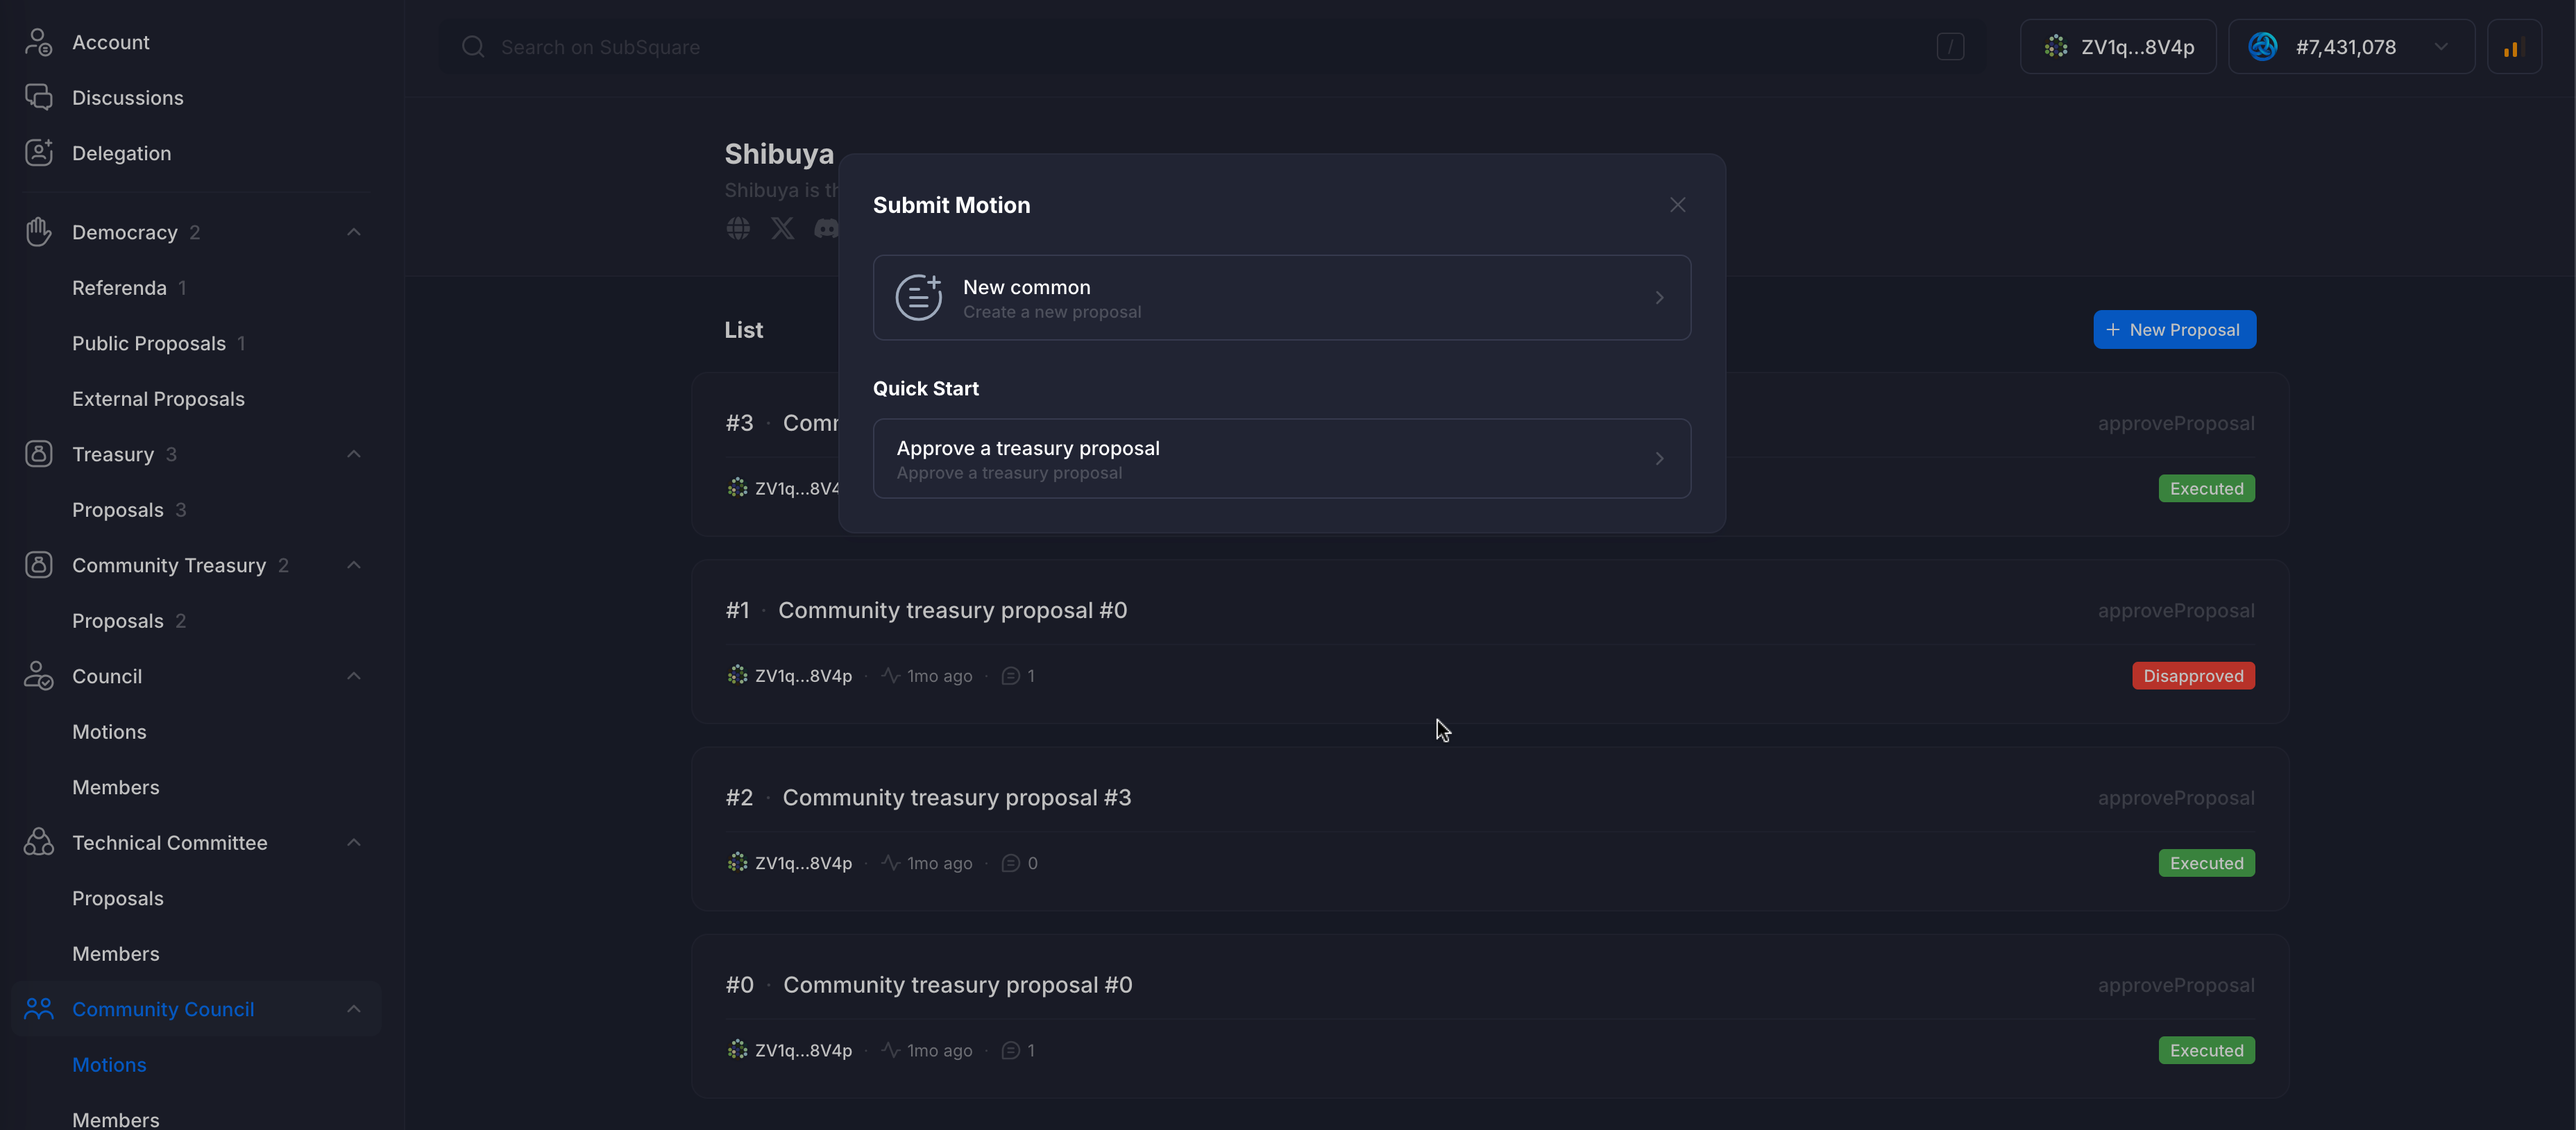
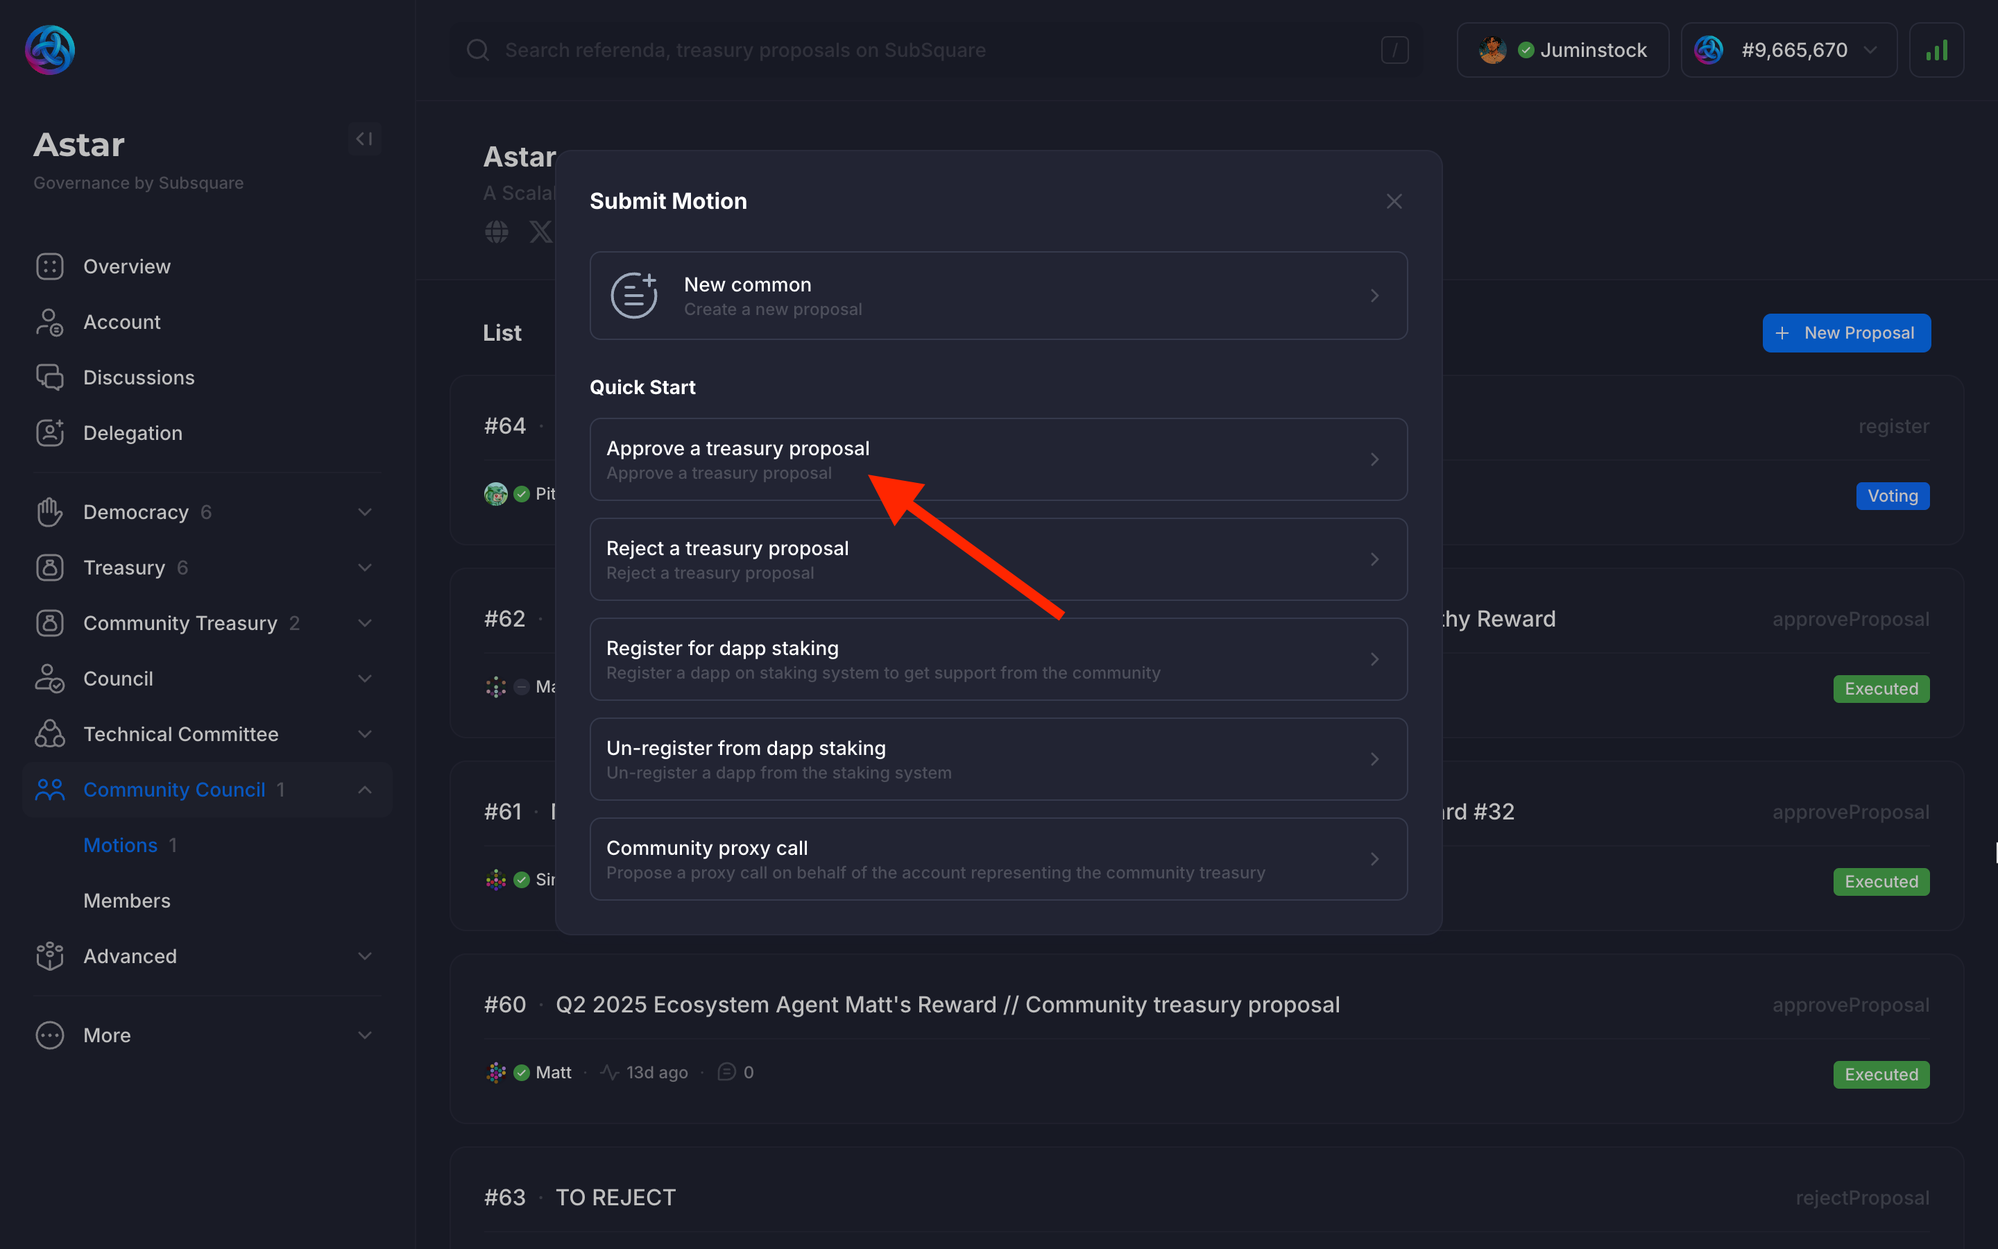
Update: Improve the Treasury Spending section

diff --git a/docs/use/how-to-guides/layer-1/governance/subsquare_guide.md b/docs/use/how-to-guides/layer-1/governance/subsquare_guide.md
@@ -332,47 +332,64 @@ Through these responsibilities, the Community Council plays a critical role in m
 If you'd like to get more involved with the Community Council, check out our [**Forum post**](https://forum.astar.network/t/introducing-the-community-council/7588).
 
 :::
-### Treasury Spending Approval
+
+Now let’s take a closer look at how the Community Council operates.
+
+### 3.2.1 Treasury Spending Request
+
+
+The Community Council is responsible for reviewing and voting on proposals that request funding from the **Community Treasury**. These proposals are submitted as `motions`, which can be viewed under the Motions tab in the Community Council section of the sidebar.
+
+With that in mind, let’s go through the steps the Council must follow to approve or reject a proposal.
+
+**Steps to Approve or Reject a Treasury Spending Proposal**
+
+**Step 1: Create a Motion**
 
 Clicking on the `Motions` tab under the `Community Council` sidebar tab will open a view of the `Community Council` motions.
 
-Clicking on the `New Proposal` button will prompt the user to create a new motion.
+Clicking on the `+ New Proposal` button will prompt the Council to create a new motion.
 
-<Figure caption="Community Treasury Voting - 1" src={require('/docs/use/img/22_Subsquare_comm_treasury/comm_treasury_1.png').default } width="100%" />
+<Figure caption="Create a Motion - Part 1" src={require('/docs/use/img/22_Subsquare_comm_treasury/comm_treasury_1.png').default } width="100%" />
 
----
+For this example, we will select the first option from the Quickstart: `Approve a treasury proposal`.
 
-The focus of this example is community treasury spending approval.
+<Figure caption="Create a Motion - Part 2" src={require('/docs/use/img/22_Subsquare_comm_treasury/comm_treasury_2.png').default } width="100%" />
 
-<Figure caption="Community Treasury Voting - 2" src={require('/docs/use/img/22_Subsquare_comm_treasury/comm_treasury_2.png').default } width="100%" />
+The proposal Id (can be checked under the Community Treasury tab) is required to create a new motion. Selecting an Id will display the proposal name, which also links to the proposal details.
 
----
+:::warning Important
 
-The proposal Id (can be checked under the Community Treasury tab) is required to create a new motion.
-Selecting an Id will display the proposal name, which also links to the proposal details.
 Community council members should ensure they're proposing and voting on the correct proposal.
 
-<Figure caption="Community Treasury Voting - 3" src={require('/docs/use/img/22_Subsquare_comm_treasury/comm_treasury_3.png').default } width="100%" />
+:::
+<Figure caption="Create a Motion - Part 3" src={require('/docs/use/img/22_Subsquare_comm_treasury/comm_treasury_3.png').default } width="100%" />
 
----
+**Step 2: Voting Process**
 
 Once the proposal creation is submitted, it will be displayed on the `Motions` page.
 
-<Figure caption="Community Treasury Voting - 4" src={require('/docs/use/img/22_Subsquare_comm_treasury/comm_treasury_4.png').default } width="100%" />
-
----
+<Figure caption="Community Treasury Voting - Part 1" src={require('/docs/use/img/22_Subsquare_comm_treasury/comm_treasury_4.png').default } width="100%" />
 
 Clicking on it will display more details, and allow for a vote to be cast.
 
-<Figure caption="Community Treasury Voting - 5" src={require('/docs/use/img/22_Subsquare_comm_treasury/comm_treasury_5.png').default } width="100%" />
+<Figure caption="Community Treasury Voting - Part 2" src={require('/docs/use/img/22_Subsquare_comm_treasury/comm_treasury_5.png').default } width="100%" />
 
----
+In this case, one of the council members votes `Aye`.
 
-In this case, one of the council members votes _aye_.
+<Figure caption="Community Treasury Voting - Part 3" src={require('/docs/use/img/22_Subsquare_comm_treasury/comm_treasury_6.png').default } width="100%" />
 
-<Figure caption="Community Treasury Voting - 6" src={require('/docs/use/img/22_Subsquare_comm_treasury/comm_treasury_6.png').default } width="100%" />
+:::tip Remove Vote
 
-### dApp Staking With Community Treasury
+If a Council member wishes to remove their vote, they may do so as long as the proposal has not yet been `Executed`. The vote can be changed as many times as desired.
+
+:::
+:::info Reject a Proposal
+
+The process to `Reject` a proposal is exactly the same, simply selecting `Reject a treasury proposal` when creating the `motion` during the step 1.
+
+:::
+### 3.2.2 dApp Staking With Community Treasury
 
 This is more complex since it requires the user to understand the basics of dApp staking backend.
 The proposal call needs to be manually crafted and submitted to the blockchain.
